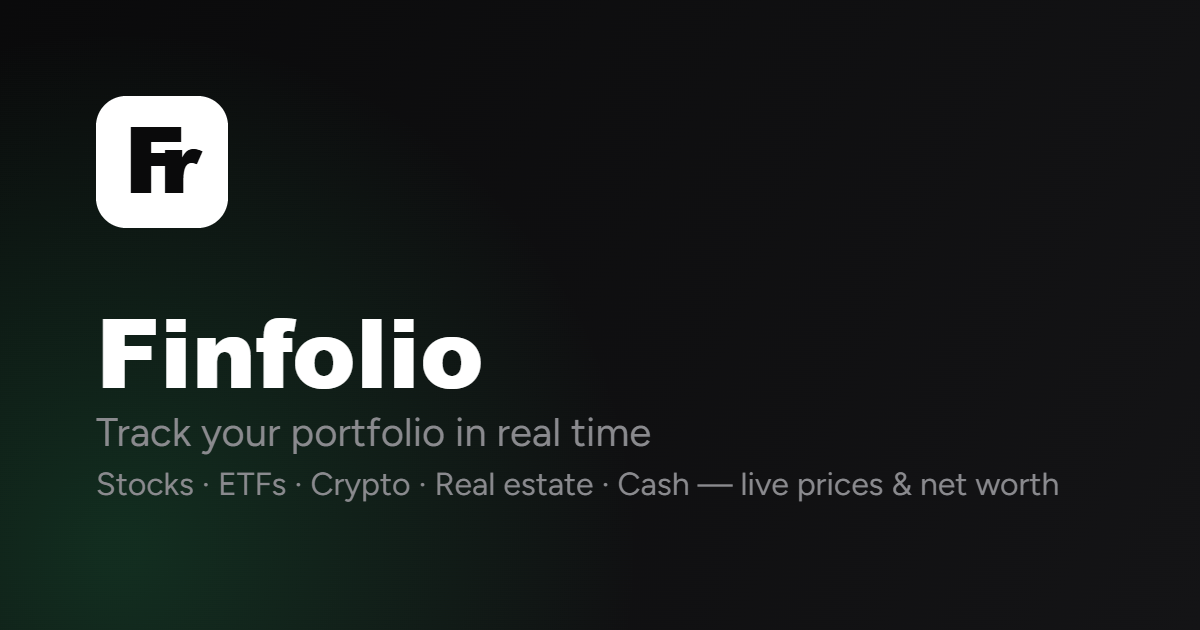
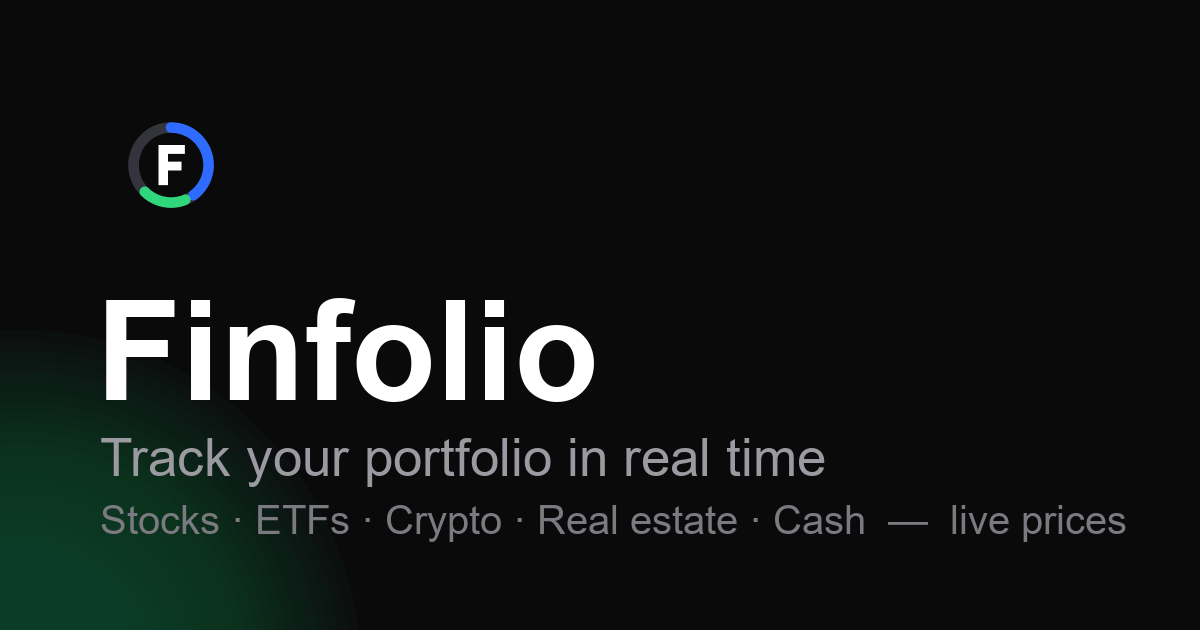
New brand mark: monogram F inside the allocation ring
Replaces the bare "F" glyph everywhere with a proper mark — a bold F
centred in a broken ring drawn in the app's accent blue and gain green,
echoing the Analytics allocation ring.

- public/icon.svg  — full-bleed, safe for maskable PWA icons
- public/favicon.svg — rounded dark tile for the browser tab
- <x-application-logo> rebuilt with the same mark; guest layout,
  side-nav, welcome and offline pages now use the component instead of
  an inline "₣" span
- Regenerated apple-touch-icon.png, favicon.ico and og-image.png
- sw.js: bump cache to finfolio-v2 so installed clients pick up the new
  icons; fix the precache list (icon-192/512 never existed)

Changed region(s): [[0.0617, 0.4524, 0.9558, 0.8444], [0.0617, 0.1508, 0.2158, 0.3619]]

diff --git a/public/sw.js b/public/sw.js
@@ -4,9 +4,9 @@
  * - Everything else: straight to network.
  * Bump CACHE to invalidate on deploy.
  */
-const CACHE = 'finfolio-v1';
+const CACHE = 'finfolio-v2';
 const OFFLINE_URL = '/offline';
-const PRECACHE = ['/offline', '/favicon.svg', '/icon.svg', '/icon-192.png', '/icon-512.png', '/site.webmanifest'];
+const PRECACHE = ['/offline', '/favicon.svg', '/icon.svg', '/apple-touch-icon.png', '/favicon.ico', '/site.webmanifest'];
 
 self.addEventListener('install', (event) => {
     event.waitUntil(

diff --git a/resources/views/components/application-logo.blade.php b/resources/views/components/application-logo.blade.php
@@ -1,4 +1,7 @@
 <svg {{ $attributes }} viewBox="0 0 48 48" fill="none" xmlns="http://www.w3.org/2000/svg">
-    <rect width="48" height="48" rx="12" fill="currentColor"/>
-    <path d="M17 34V14h15v4H21.5v5H31v4h-9.5v7H17Z" fill="#000"/>
+    <rect width="48" height="48" rx="12" fill="#0a0a0b"/>
+    <circle cx="24" cy="24" r="12" stroke="#26262a" stroke-width="3.4"/>
+    <circle cx="24" cy="24" r="12" stroke="#2f6bff" stroke-width="3.4" stroke-dasharray="30 45.4" transform="rotate(-90 24 24)"/>
+    <circle cx="24" cy="24" r="12" stroke="#30d67b" stroke-width="3.4" stroke-dasharray="14 61.4" stroke-dashoffset="-33" transform="rotate(-90 24 24)"/>
+    <path d="M20 17.6H28.4V20.4H23V22.9H27.3V25.7H23V30.4H20Z" fill="#fff"/>
 </svg>

diff --git a/resources/views/offline.blade.php b/resources/views/offline.blade.php
@@ -10,7 +10,7 @@
 </head>
 <body class="bg-ink font-sans text-white">
     <div class="mx-auto flex min-h-screen w-full max-w-sm flex-col items-center justify-center px-6 text-center">
-        <div class="mb-5 flex h-14 w-14 items-center justify-center rounded-2xl bg-white text-2xl font-black text-ink">₣</div>
+        <x-application-logo class="mb-5 h-14 w-14 rounded-2xl" />
         <h1 class="text-xl font-bold">You're offline</h1>
         <p class="mt-2 text-sm text-muted">Finfolio needs a connection to show live prices. Check your network and try again.</p>
         <button onclick="location.reload()" class="btn-primary mt-6">Retry</button>

diff --git a/resources/views/layouts/guest.blade.php b/resources/views/layouts/guest.blade.php
@@ -12,7 +12,7 @@
 <body class="bg-ink font-sans text-white antialiased">
     <div class="mx-auto flex min-h-screen w-full max-w-sm flex-col justify-center px-6 py-10">
         <div class="mb-8 text-center">
-            <div class="mx-auto mb-4 flex h-14 w-14 items-center justify-center rounded-2xl bg-white text-2xl font-black text-ink">₣</div>
+            <x-application-logo class="mx-auto mb-4 h-14 w-14 rounded-2xl" />
             <h1 class="text-2xl font-bold">Finfolio</h1>
             <p class="mt-1 text-sm text-muted">Track every position, live.</p>
         </div>

diff --git a/resources/views/welcome.blade.php b/resources/views/welcome.blade.php
@@ -10,7 +10,7 @@
 </head>
 <body class="bg-ink font-sans text-white">
     <div class="mx-auto flex min-h-screen max-w-app flex-col items-center justify-center px-6 text-center">
-        <div class="mb-5 flex h-16 w-16 items-center justify-center rounded-2xl bg-white text-3xl font-black text-ink">₣</div>
+        <x-application-logo class="mb-5 h-16 w-16 rounded-2xl" />
         <h1 class="text-3xl font-bold">Finfolio</h1>
         <p class="mt-2 text-muted">Track every position, live.</p>
         <div class="mt-8 flex w-full flex-col gap-3">

diff --git a/resources/views/components/side-nav.blade.php b/resources/views/components/side-nav.blade.php
@@ -9,7 +9,7 @@
 @endphp
 <aside class="side-nav">
     <a href="{{ route('home') }}" class="mb-6 flex items-center gap-2.5 px-3">
-        <span class="flex h-9 w-9 items-center justify-center rounded-xl bg-white text-lg font-black text-ink">₣</span>
+        <x-application-logo class="h-9 w-9 rounded-xl" />
         <span class="text-lg font-bold">Finfolio</span>
     </a>
 
